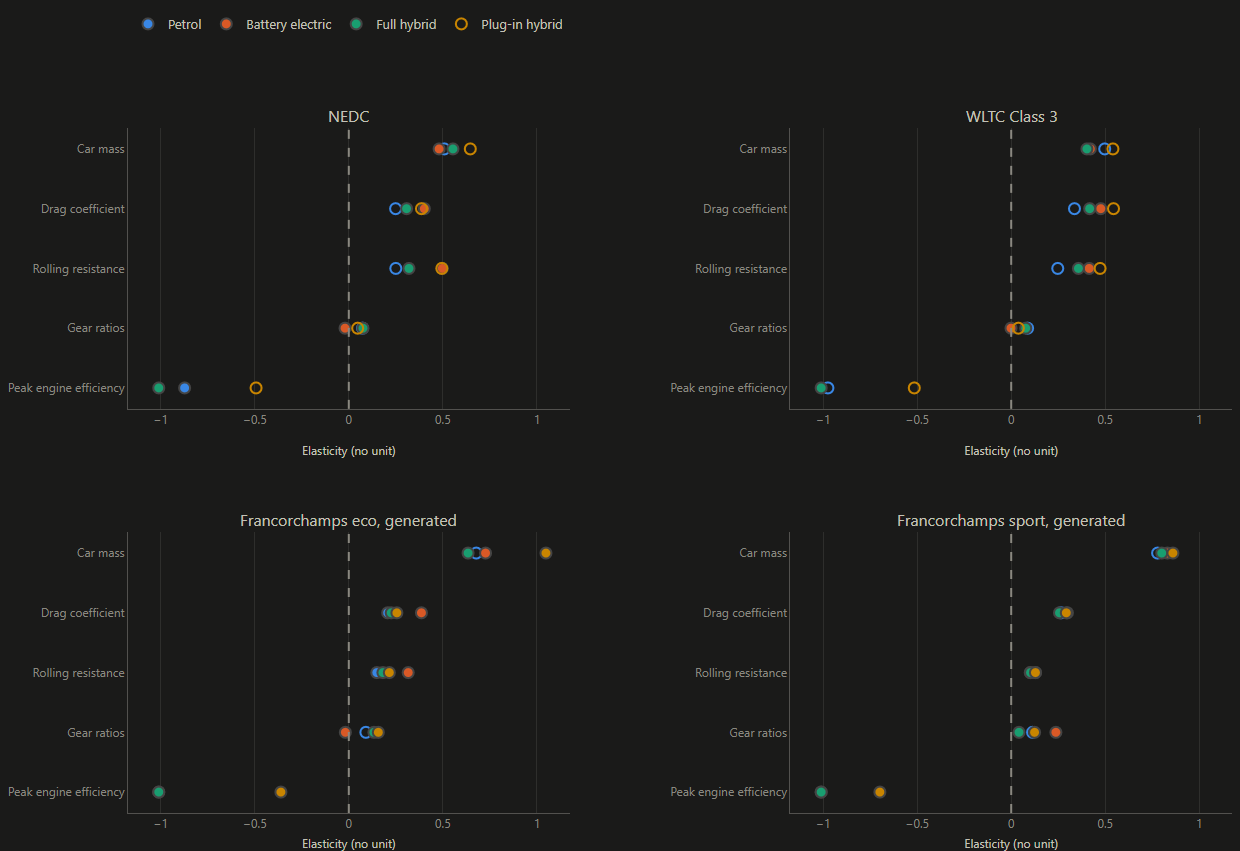
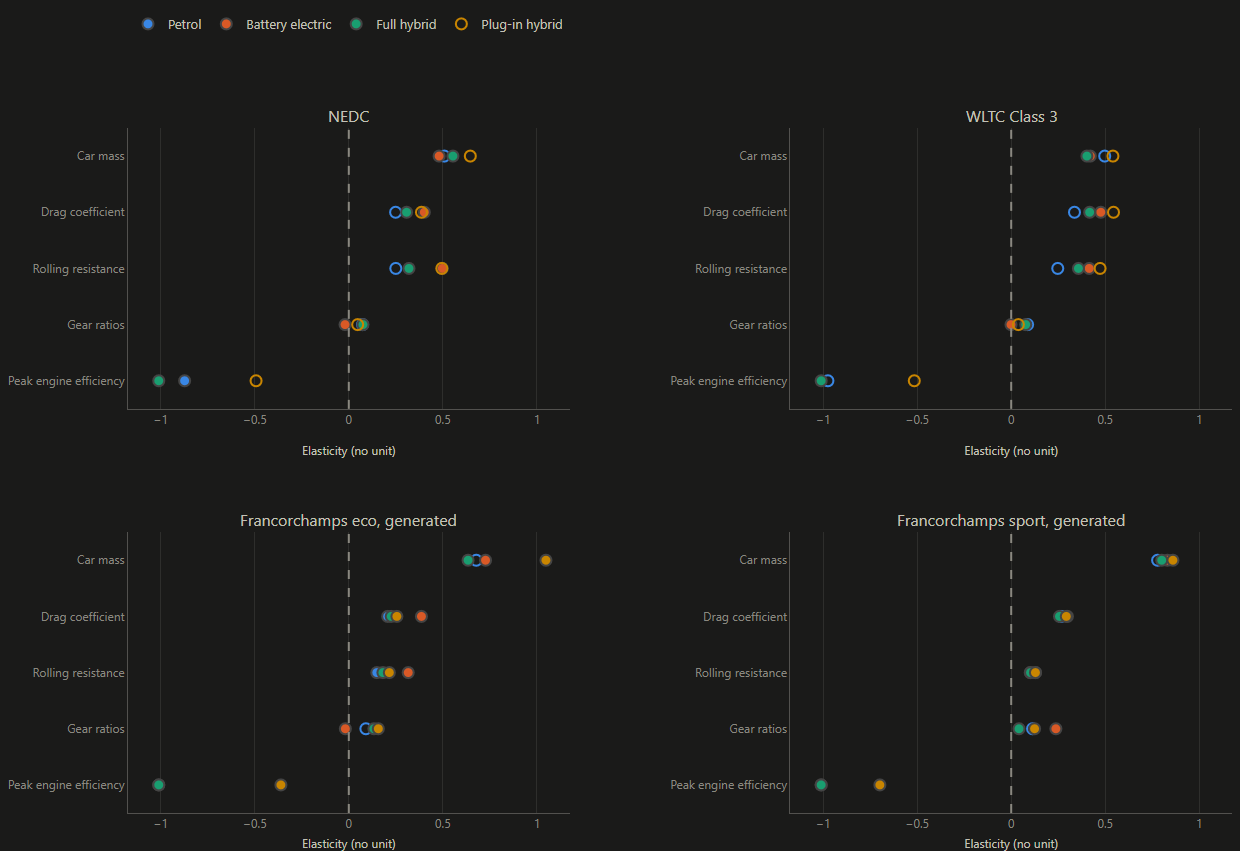
Keep missing BEV engine row aligned in elasticity panels

diff --git a/dashboard/sensitivity_charts.py b/dashboard/sensitivity_charts.py
@@ -101,7 +101,10 @@ def elasticity_panels(ranked: pd.DataFrame, across: str, pal: Palette) -> go.Fig
         fig.add_vline(x=0, line_dash='dash', line_color=pal.text_muted, row=row+1, col=col+1)
     style_axes(fig, pal)
     fig.update_xaxes(range=[-bound, bound], title_text='Elasticity (no unit)')
-    fig.update_yaxes(categoryorder='array', categoryarray=list(FACTOR_NAMES.values()), autorange='reversed', showgrid=False)
+    factors = list(FACTOR_NAMES.values())
+    fig.update_yaxes(categoryorder='array', categoryarray=factors,
+                     range=[len(factors)-0.5, -0.5], autorange=False,
+                     tickmode='array', tickvals=factors, showgrid=False)
     fig.update_layout(height=850, margin=dict(t=110), legend=dict(y=1.13))
     return fig
 

diff --git a/tests/test_sensitivity_page.py b/tests/test_sensitivity_page.py
@@ -41,6 +41,8 @@ def test_new_views_cover_ranked_data_and_selected_examples():
             assert len(dots) == 76
             assert {tuple(r[:3]) for r in dots} == set(ranked[['powertrain', 'cycle', 'factor']].itertuples(index=False, name=None))
             assert len({tuple(chart.layout[k].range) for k in ('xaxis', 'xaxis2', 'xaxis3', 'xaxis4')}) == 1
+            for key in ('yaxis', 'yaxis2', 'yaxis3', 'yaxis4'):
+                assert tuple(chart.layout[key].range) == (4.5, -0.5)
         assert [list(t.x) for t in charts[0].data] != [list(t.x) for t in charts[1].data]
 
 
